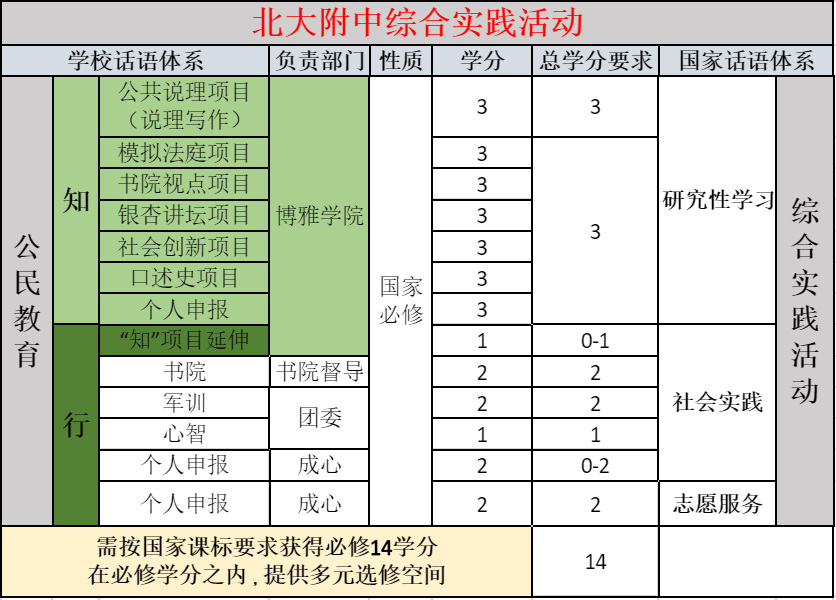
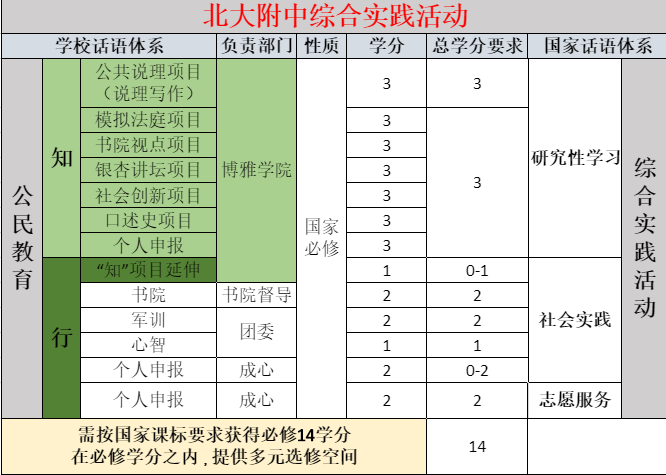
框架完毕

Changed region(s): [[0.0, 0.0, 1.0, 1.0], [0.6907, 0.3537, 0.7207, 0.4126]]

diff --git a/chapter2/section1.md b/chapter2/section1.md
@@ -5,171 +5,13 @@
 其中语文、英语课程基于国家课程标准进行了整合，语文开设以经典专书为载体的“经典阅读课程”；英语开设英语原著阅读课程；数学、物理、化学、生物根据学生个体差异开设了基础课程、普通课程、荣誉课程。
 
 行知学院共开设国家必修课程56学分，国家选择性必修课程98学分，国家选修课程38学分，校本课程41学分。
-
-学科	必修学分	选择性必修学分	国家选修学分	校本学分
-数学	8	6	22	3
-物理	6	6	2	4
-化学	4	6	6	6
-生物	4	6	0	8
-地理	4	6	0	2
-历史	4	6	2	8
-政治	6	6	6	2
-英语	10	16	0	4
-语文	10	40	0	4
-学分总计	56	98	38	41
-
-具体安排如下。
-
-学科	模块课程	必修	选择性必修	国家选修	校本选修
-数学	函数（上）（荣誉，普通）	2学分			
-	函数（中）（荣誉，普通）	2学分			
-	函数（下）（荣誉，普通）		2学分		
-	几何与代数（上）（荣誉，普通）	2学分			
-	几何与代数（下）（荣誉，普通）		2学分		
-	概率与统计（上）（荣誉，普通）	2学分			
-	概率与统计（下）（荣誉，普通）		2学分		
-	数学经典阅读				1学分
-	微积分进阶			2学分	
-	线性代数			2学分	
-	参数估计与假设检验			2学分	
-	数学模型			2学分	
-	社会调查与数据分析			2学分	
-	美与数学			2学分	
-	音乐中的数学			2学分	
-	体育中的数学			2学分	
-	对称与群			2学分	
-	初等数论			2学分	
-	球面几何			2学分	
-	数学自主招生				2学分
-数学学分小计	8	6	22	3
-
-
-学科	模块课程	必修	选择性必修	国家选修	校本选修
-物理	物理必修1（荣誉，普通，人文）	2学分			
-	物理必修2（荣誉，普通，人文）	2学分			
-	物理必修3（荣誉，普通，人文）	2学分			
-	物理选择性必修1（荣誉，普通）		2学分		
-	物理选择性必修2（荣誉，普通）		2学分		
-	物理选择性必修3（荣誉，普通）		2学分		
-	物理选修3（荣誉，普通）			2学分	
-	主题探究1				2学分
-	主题探究2				2学分
-物理学分小计	6	6	2	4
-学科	模块课程	必修	选择性必修	国家选修	校本选修
-
-
-化学	化学必修1（荣誉，普通）	2学分			
-	化学必修2（荣誉，普通）	2学分			
-	化学选择性必修1（荣誉，普通）		2学分		
-	化学选择性必修2（荣誉，普通）		2学分		
-	化学选择性必修3（荣誉，普通）		2学分		
-	化学选修1（荣誉，普通）			2学分	
-	化学选修2（荣誉，普通）			2学分	
-	化学选修3（荣誉，普通）			2学分	
-	基于元素化合物主题实验探究和深度学习				2学分
-	基于原理主题实验探究和深度学习				2学分
-	文献阅读与深度综合探究				2学分
-化学学分小计	4	6	6	6
-
-
-学科	模块课程	必修	选择性必修	国家选修	校本选修
-生物	生物必修1（荣誉，普通）	2学分			
-	生物必修2（荣誉，普通）	2学分			
-	生物选择性必修1（荣誉，普通）		2学分		
-	生物选择性必修2（荣誉，普通）		2学分		
-	生物选择性必修3（荣誉，普通）		2学分		
-	生物文献阅读				2学分
-	自然的馈赠——生物研究漫谈				2学分
-	生物课题研究				2学分
-	生物学概念与方法				2学分
-生物学分小计	4	6	0	8
-
-
-学科	模块课程	必修	选择性必修	国家选修	校本选修
-地理	地理必修1	2学分			
-	地理必修2	2学分			
-	地理选择性必修1		2学分		
-	地理选择性必修2		2学分		
-	地理选择性必修3		2学分		
-	区域地理				2学分
-地理学分小计	4	6	0	2
-
-
-学科	模块课程	必修	选择性必修	国家选修	校本选修
-历史	中外史纲要上册	2学分			
-	中外史纲要下册	2学分			
-	国家制度与社会治理		2学分		
-	经济与社会生活		2学分		
-	文化交流与传播		2学分		
-	史料研读			2学分	
-	大学先修中国通史古代部分				4学分
-	文史通义				2学分
-	历史的观念				2学分
-历史学分小计	4	6	2	8
-
-
-学科	模块课程	必修	选择性必修	国家选修	校本选修
-政治	政治必修1&2	2学分			
-	政治必修3	2学分			
-	政治必修4	2学分			
-	政治选择性必修1		2学分		
-	政治选择性必修2		2学分		
-	政治选择性必修3		2学分		
-	政治选修1			2学分	
-	政治选修2			2学分	
-	政治选修3			2学分	
-	政治学科综合探究				2学分
-政治学分小计	6	6	6	2
-
-
-学科	模块课程	必修	选择性必修	国家选修	校本选修
-英语	原著阅读:The Giver	2学分			
-	原著阅读：A Winkle in Time	2学分			
-	时文阅读-文化与教育	2学分			
-	时文阅读-综合1	2学分			
-	时文阅读-传媒与娱乐	2学分			
-	原著阅读：Everything I Never Told You		2学分		
-	原著阅读：To Kill A Morkingbird		2学分		
-	原著阅读：Lord of the Flies		2学分		
-	时文阅读-人文与政经		2学分		
-	时文阅读-社会与科技		2学分		
-	时文阅读-综合2		2学分		
-	英文写作（议论类）		2学分		
-	英文写作（叙述类）		2学分		
-	英文演讲				2学分
-	英汉翻译				2学分
-英语学分小计	10	16	0	4
-
-
-学科	模块课程	必修	选择性必修	国家选修	校本选修
-语文	现当代散文欣赏	2学分			
-	古代散文欣赏	2学分			
-	古典诗词欣赏	2学分			
-	小说与戏剧欣赏	2学分			
-	咬文嚼字	2学分			
-	唐诗选读		2学分		
-	说文解字		2学分		
-	唐宋词一百首欣赏		2学分		
-	中国当代文学选读		2学分		
-	谈美书简		2学分		
-	《古文观止》选读		2学分		
-	《论语》研读		2学分		
-	《孟子》研读		2学分		
-	《庄子》选读		2学分		
-	《老子》研读		2学分		
-	《史记》选读		2学分		
-	《东坡志林》选读		2学分		
-	《杜甫传》研读		2学分		
-	《红楼梦》研读		2学分		
-	《四世同堂》选读		2学分		
-	古典戏剧选读		2学分		
-	鲁迅作品选读		2学分		
-	诗词例话		2学分		
-	老舍作品选读		2学分		
-	巴金作品选读		2学分		
-	中国古代文化史专题研讨				2学分
-	西方文学选读				2学分
-语文学分小计	10	40	0	4
-
-
-行知学院两年课程安排见附录一。
+<div  align="center">    
+ <img src="/images/xz1.png"  alt="图片名称" align=center />
+ <img src="/images/xz2.png" alt="图片名称" align=center />
+ <img src="/images/xz3.png"  alt="图片名称" align=center />
+ <img src="/images/xz4.png"  alt="图片名称" align=center />
+ <img src="/images/xz5.png" alt="图片名称" align=center />
+ <img src="/images/xz6.png" alt="图片名称" align=center />
+ <img src="/images/xz7.png" alt="图片名称" align=center />
+ <img src="/images/xz8.png"  alt="图片名称" align=center />
+</div>

diff --git a/chapter3/section4.md b/chapter3/section4.md
@@ -2,6 +2,6 @@
 
 模块等级不合格不能获得相应学分，若是必修课程则必须重修。重修在新学段记录过程性及终结性评价成绩，重新确定模块等级，原学段模块成绩在原学段保留。若仍未通过,可再次重修，前次成绩依然保留。若是选修课程，则可选择不再重修，原成绩保留。第二种是报名参加学校在寒假暑假开设的重修班，寒暑假重修班能够获得的等级最高为C。
 
-　　因事因病未参加终结性考试的学生，在获得教导主任批准后，可参加缓考。因事不能参加考试，需要在考试周之前请假，获得批准后方可缓考。因病不能参加的，需要至少在考试前打电话给58751074说明，随后要提交正式请假，获得批准后方可缓考。
+因事因病未参加终结性考试的学生，在获得教导主任批准后，可参加缓考。因事不能参加考试，需要在考试周之前请假，获得批准后方可缓考。因病不能参加的，需要至少在考试前打电话给58751074说明，随后要提交正式请假，获得批准后方可缓考。
 
-　　缓考安排在下一次此模块开设的终结性考试，缓考成绩与原模块过程性评价合成原模块等级成绩计算积点。未获批准未参加考试的学生，模块成绩记为F，不能参加缓考。
+缓考安排在下一次此模块开设的终结性考试，缓考成绩与原模块过程性评价合成原模块等级成绩计算积点。未获批准未参加考试的学生，模块成绩记为F，不能参加缓考。

diff --git a/chapter3/section2.md b/chapter3/section2.md
@@ -7,6 +7,12 @@
 学科类课程划分8个等级。活动类课程划分5个等级（即下表中A/B/C/D/F），综合实践活动领域的活动类课程按学分和项目划分模块，只认定学分，不评定等级，不计积点。无积点课程如晨会、拓展等课程等级为P即通过。由于不可抗力，经校方同意无法修完某门课程则等级为I，可在新学段继续修完本课程。
 
 积点与等级相对应：
+ <img src="/images/grade.png" width = "860" height = "370" alt="图片名称" align=center />
 
-学生每完成一个模块课程的学习和评价，系统将根据课程学分以及学生获得的评价等级计算该模块课程获得的学分积点，计算公式为：模块学分积点=模块的学分×积点。
-　　平均学分积点（Grade Point Average，即GPA）是对学生学业表现的量化评价标准，是对学生全部模块学分积点的平均，计算方式如下： 平均学分积点=学分积点总和÷所修习学分总和。
+学生每完成一个模块课程的学习和评价，系统将根据课程学分以及学生获得的评价等级计算该模块课程获得的学分积点，
+
+计算公式为：模块学分积点=模块的学分×积点。
+
+平均学分积点（Grade Point Average，即GPA）是对学生学业表现的量化评价标准，是对学生全部模块学分积点的平均，
+
+计算方式如下： 平均学分积点=学分积点总和÷所修习学分总和。

diff --git a/chapter2/section3.md b/chapter2/section3.md
@@ -1,6 +1,10 @@
 # 博雅学院
 
 ## 学院事务
+
+![boya][1]
+[1]: https://processon.com/chart_image/5cec78a8e4b0fea7c10e652f.png  "boya"
+
  [人文项目](https://pkuschool.github.io/Pkuschool-PBL/)面向高中部全体学生，除公共说理为全校必修，其他采用双选制：学生根据个人兴趣选择，项目主管教师发布筛选机制。两年总数量满足两届学生数。
 
 [语言文化项目](https://pkuschool.github.io/2019/04/29/lan2cul/)面向高中全体学生，开设中文创意写作课程，同时引入欧洲为主各国语言文化项目；为学生升入高校后发展提供支持。
@@ -16,6 +20,6 @@
 
 2019年9月起，人文项目与综合实践深度结合，学分对应关系如图：
 
-<center>
-<img src='images/zhixing.png' style='width:350px;' alt='' title='all'>
-</center>
+<div  align="center">    
+ <img src="/images/zhixing.png" width = "560" height = "370" alt="图片名称" align=center />
+</div>

diff --git a/SUMMARY.md b/SUMMARY.md
@@ -19,7 +19,7 @@
     * [荣誉课程 Honors Course](chapter3/section3.md)
     * [重修和缓考](chapter3/section4.md)
     * [自修和免修](chapter3/section5.md)
-    * [附录](chapter4/README.md)
+* [附录](chapter4/README.md)
     * [附录一](chapter4/section1.md)
     * [附录二](chapter4/section2.md)
 
